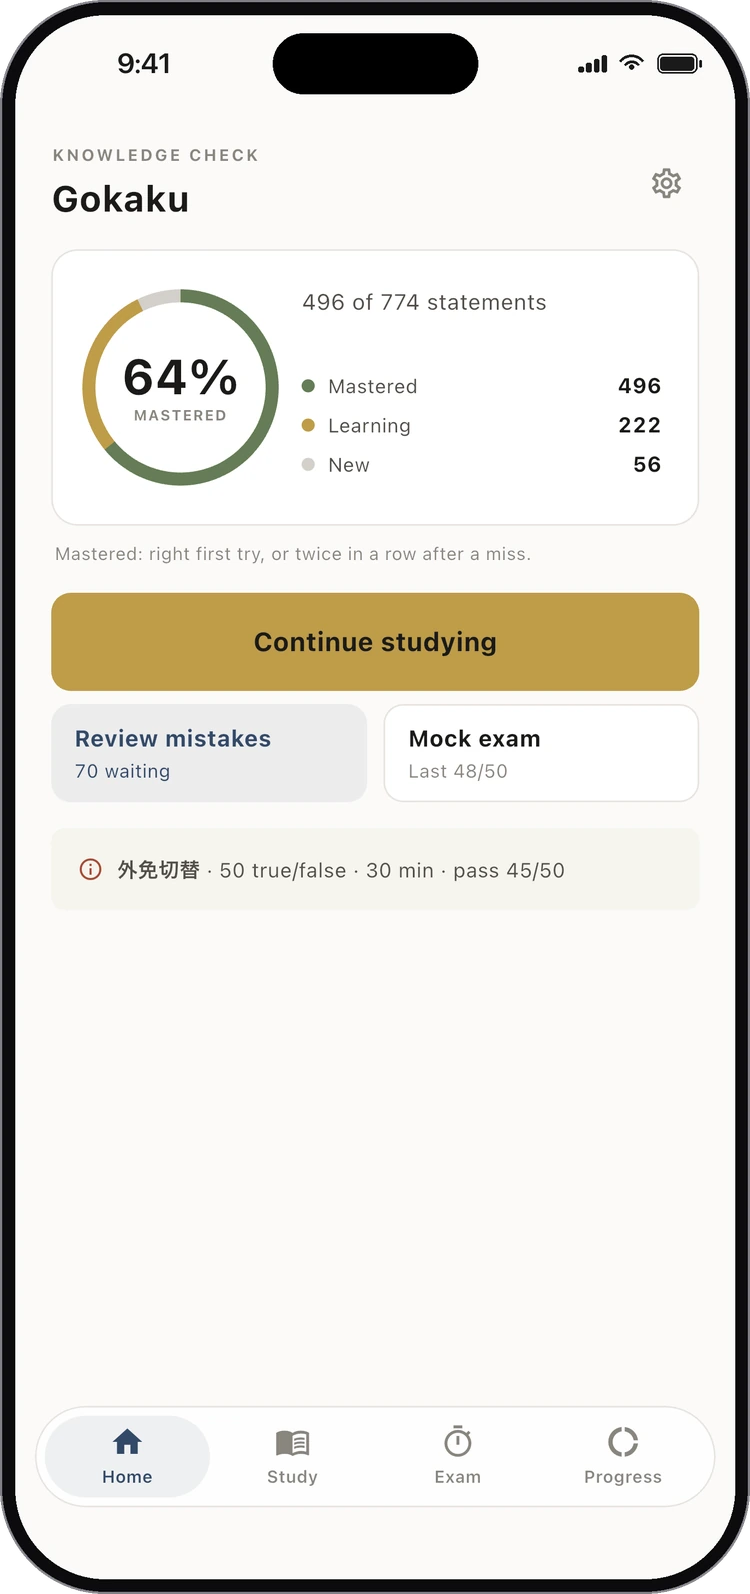
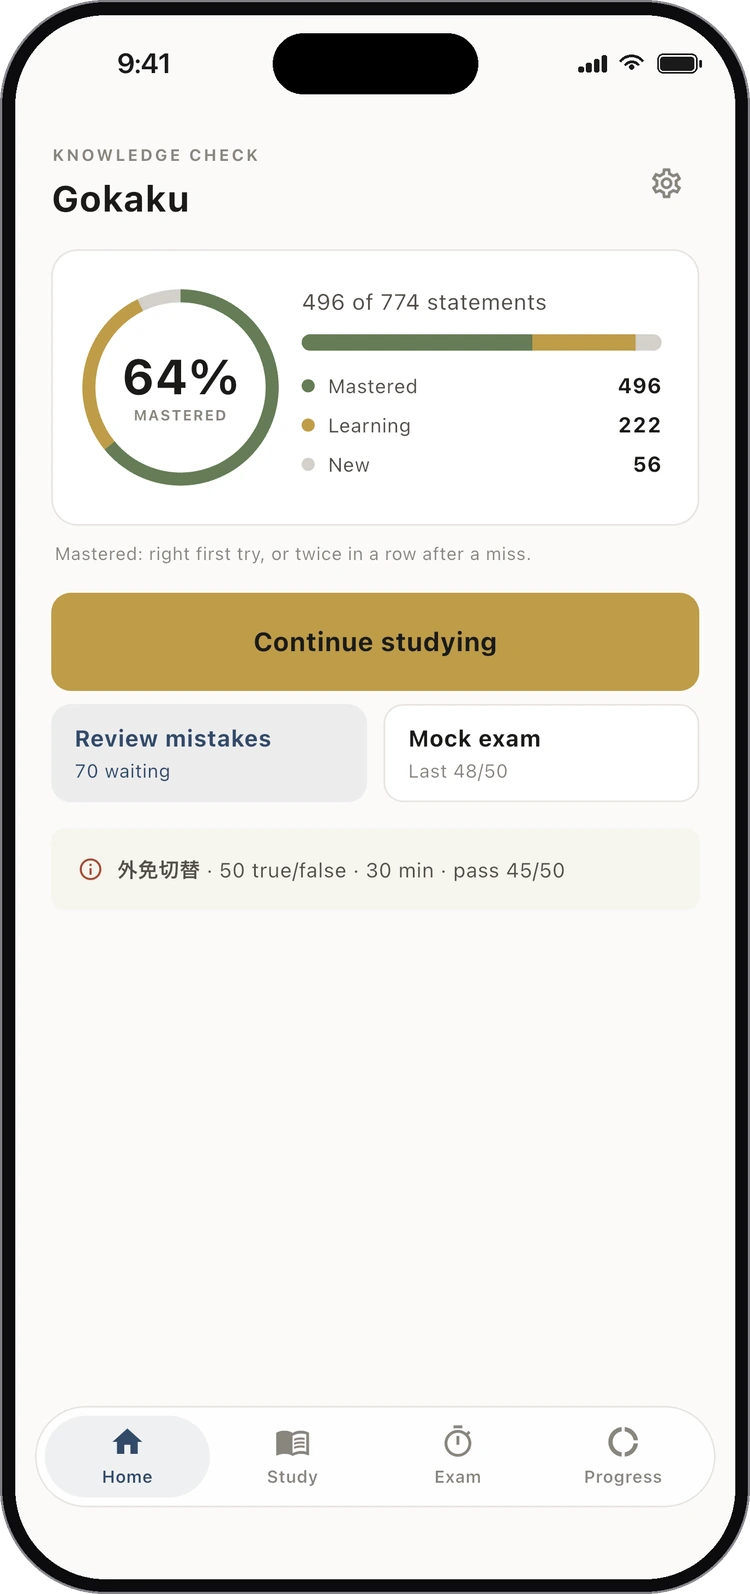
Refresh the Gokaku shots from the new capture round
The Progress screen was redesigned — an exam trend with a pass line and a
coverage strip across the thirteen topics — so 06-analytics no longer showed
what the app does. Five frames replace the old five:

  01-home · 05-sign-question · 06-answered · 09-results-map · 03-tricks

05 and 06 are the same question before and after answering, kept adjacent
because that pairing is the product. 09-results-map is new and does double
duty: it carries the pass mark and the clock as well as the traps behind the
three misses, which is why 04-exam comes out rather than joins — .plates fits
exactly five phone frames at every viewport width, a sixth orphans onto a
second row. 07-citation is a duplicate of 06 and stays unpublished.

File names follow the capture round rather than page order, so each frame
still maps to the table the shots are generated from.

"One question, in full" quoted the retired 03-citation, so it now quotes
06-answered instead: item GS-045, sign 323, transcribed from the frame. That
also fills ruleJa, which had been left empty because the Japanese original
sits behind a disclosure in the capture — the Japanese page was falling back
to the English text with an apology for it.

Changed region(s): [[0.3987, 0.1844, 0.8893, 0.2459]]

diff --git a/src/content/apps/gokaku.md b/src/content/apps/gokaku.md
@@ -55,20 +55,24 @@ features:
 statement: >-
   Generating question variants is easy. Keeping each one faithful to what the
   rulebook actually says is the slow part.
-# Transcribed from the shipped build (the same item as shots/03-citation).
-# ruleJa is deliberately absent: the app keeps the Japanese original behind a
-# disclosure, so it is not visible in that capture. Paste it verbatim from the
-# bank — reconstructing it would break the one claim this block exists to make.
+# Item GS-045, the same one shown in shots/06-answered. Transcribed from the
+# shipped build, with ruleJa taken verbatim from the question bank — the app
+# keeps the Japanese original behind a disclosure, so only its opening line is
+# visible in the capture. Never reconstruct it: quoting the 教則 exactly is the
+# one claim this block exists to make.
 sample:
   claim: >-
-    This sign designates the minimum speed for motor vehicles — you must not
-    drive slower than the number shown.
+    This sign designates the maximum speed for motor vehicles and streetcars,
+    and a 30 km/h maximum for standard mopeds.
   correct: true
   note: >-
-    Sign 324 sets the minimum speed for motor vehicles. It is distinguished from
-    the maximum speed sign (323) by an underline beneath the number.
-  ruleEn: Designation of the minimum speed for motor vehicles.
-  reference: 教則 付表3（1）26（規制標識）
+    Sign 323 sets the maximum speed. It applies to motor vehicles and
+    streetcars; additionally, a 30 km/h maximum applies to mopeds.
+  ruleEn: >-
+    (1) Designation of the maximum speed for motor vehicles and streetcars.
+    (2) Designation of a maximum speed of 30 km/h or less for mopeds.
+  ruleJa: （１）自動車と路面電車…の最高速度の指定（２）原動機付自転車の時速30キロメートル以下の最高速度の指定
+  reference: 教則 付表3（1）25（規制標識）
   edition: 49th revision · 13 November 2024
 facts:
   - group: 問題 · questions
@@ -108,27 +112,27 @@ shots:
     caption: Where a session starts
     device: iphone
     framed: true
-  - src: ./shots/gokaku/02-question.webp
-    srcDark: ./shots/gokaku/02-question-dark.webp
-    alt: A true/false question showing a road sign, with ○ and × buttons
+  - src: ./shots/gokaku/05-sign-question.webp
+    srcDark: ./shots/gokaku/05-sign-question-dark.webp
+    alt: A true/false question showing a speed limit sign, with TRUE and FALSE buttons
     caption: Real exam format — true or false
     device: iphone
     framed: true
-  - src: ./shots/gokaku/03-citation.webp
-    srcDark: ./shots/gokaku/03-citation-dark.webp
-    alt: The same question after answering, showing the verdict and the official rule
+  - src: ./shots/gokaku/06-answered.webp
+    srcDark: ./shots/gokaku/06-answered-dark.webp
+    alt: The same question after answering, showing the verdict, the explanation and the official rule with its chapter reference
     caption: The rule the answer comes from
     device: iphone
     framed: true
-  - src: ./shots/gokaku/04-exam.webp
-    srcDark: ./shots/gokaku/04-exam-dark.webp
-    alt: A mock exam in progress with a countdown timer and question palette
-    caption: Full mock exams, on the clock
+  - src: ./shots/gokaku/09-results-map.webp
+    srcDark: ./shots/gokaku/09-results-map-dark.webp
+    alt: A finished mock exam scored 47 out of 50, with all fifty questions as a grid and the traps that caught the three misses
+    caption: Your whole paper on one screen
     device: iphone
     framed: true
-  - src: ./shots/gokaku/06-analytics.webp
-    srcDark: ./shots/gokaku/06-analytics-dark.webp
-    alt: Accuracy broken down by trap type, worst first, above the exam history
+  - src: ./shots/gokaku/03-tricks.webp
+    srcDark: ./shots/gokaku/03-tricks-dark.webp
+    alt: Accuracy broken down by trap type, worst first, above the exam trend and coverage across the thirteen topics
     caption: Which traps keep catching you
     device: iphone
     framed: true
@@ -225,7 +229,7 @@ ja:
     - 学習はここから
     - 本番と同じ○×形式
     - 答えの根拠となる条文
-    - 時間を計った模擬試験
+    - 50問の答案が一画面に
     - どの型に引っかかるか
   body: >-
     手間の大半はアプリ本体ではなく、問題の生成パイプラインにかかっています。
@@ -247,13 +251,15 @@ ja:
     本アプリの模擬試験に合格しても、実際の試験の合格を保証するものではありません。
     交通ルールは改正されます。最新の要件は必ずお住まいの都道府県の運転免許センターで
     ご確認ください。
+  # Both lines are the app's own Japanese strings for GS-045, copied from the
+  # bank's ja localisation — not translated back from the English above.
   sample:
     claim: >-
-      この標識は自動車の最低速度を指定するものであり、示された数値より遅い速度で
-      運転してはならない。
+      この標識は、自動車と路面電車の最高速度を指定し、原動機付自転車には
+      時速30キロメートル以下の最高速度を指定するものである。
     note: >-
-      標識324は自動車の最低速度を指定します。数字の下に引かれた下線によって、
-      最高速度標識（323）と区別されます。
+      標識323（最高速度）は、自動車と路面電車の最高速度を指定するものです。
+      なお、原動機付自転車には時速30キロメートル以下の最高速度が指定されます。
   notes:
     - term: 固定した版
       body: >-
